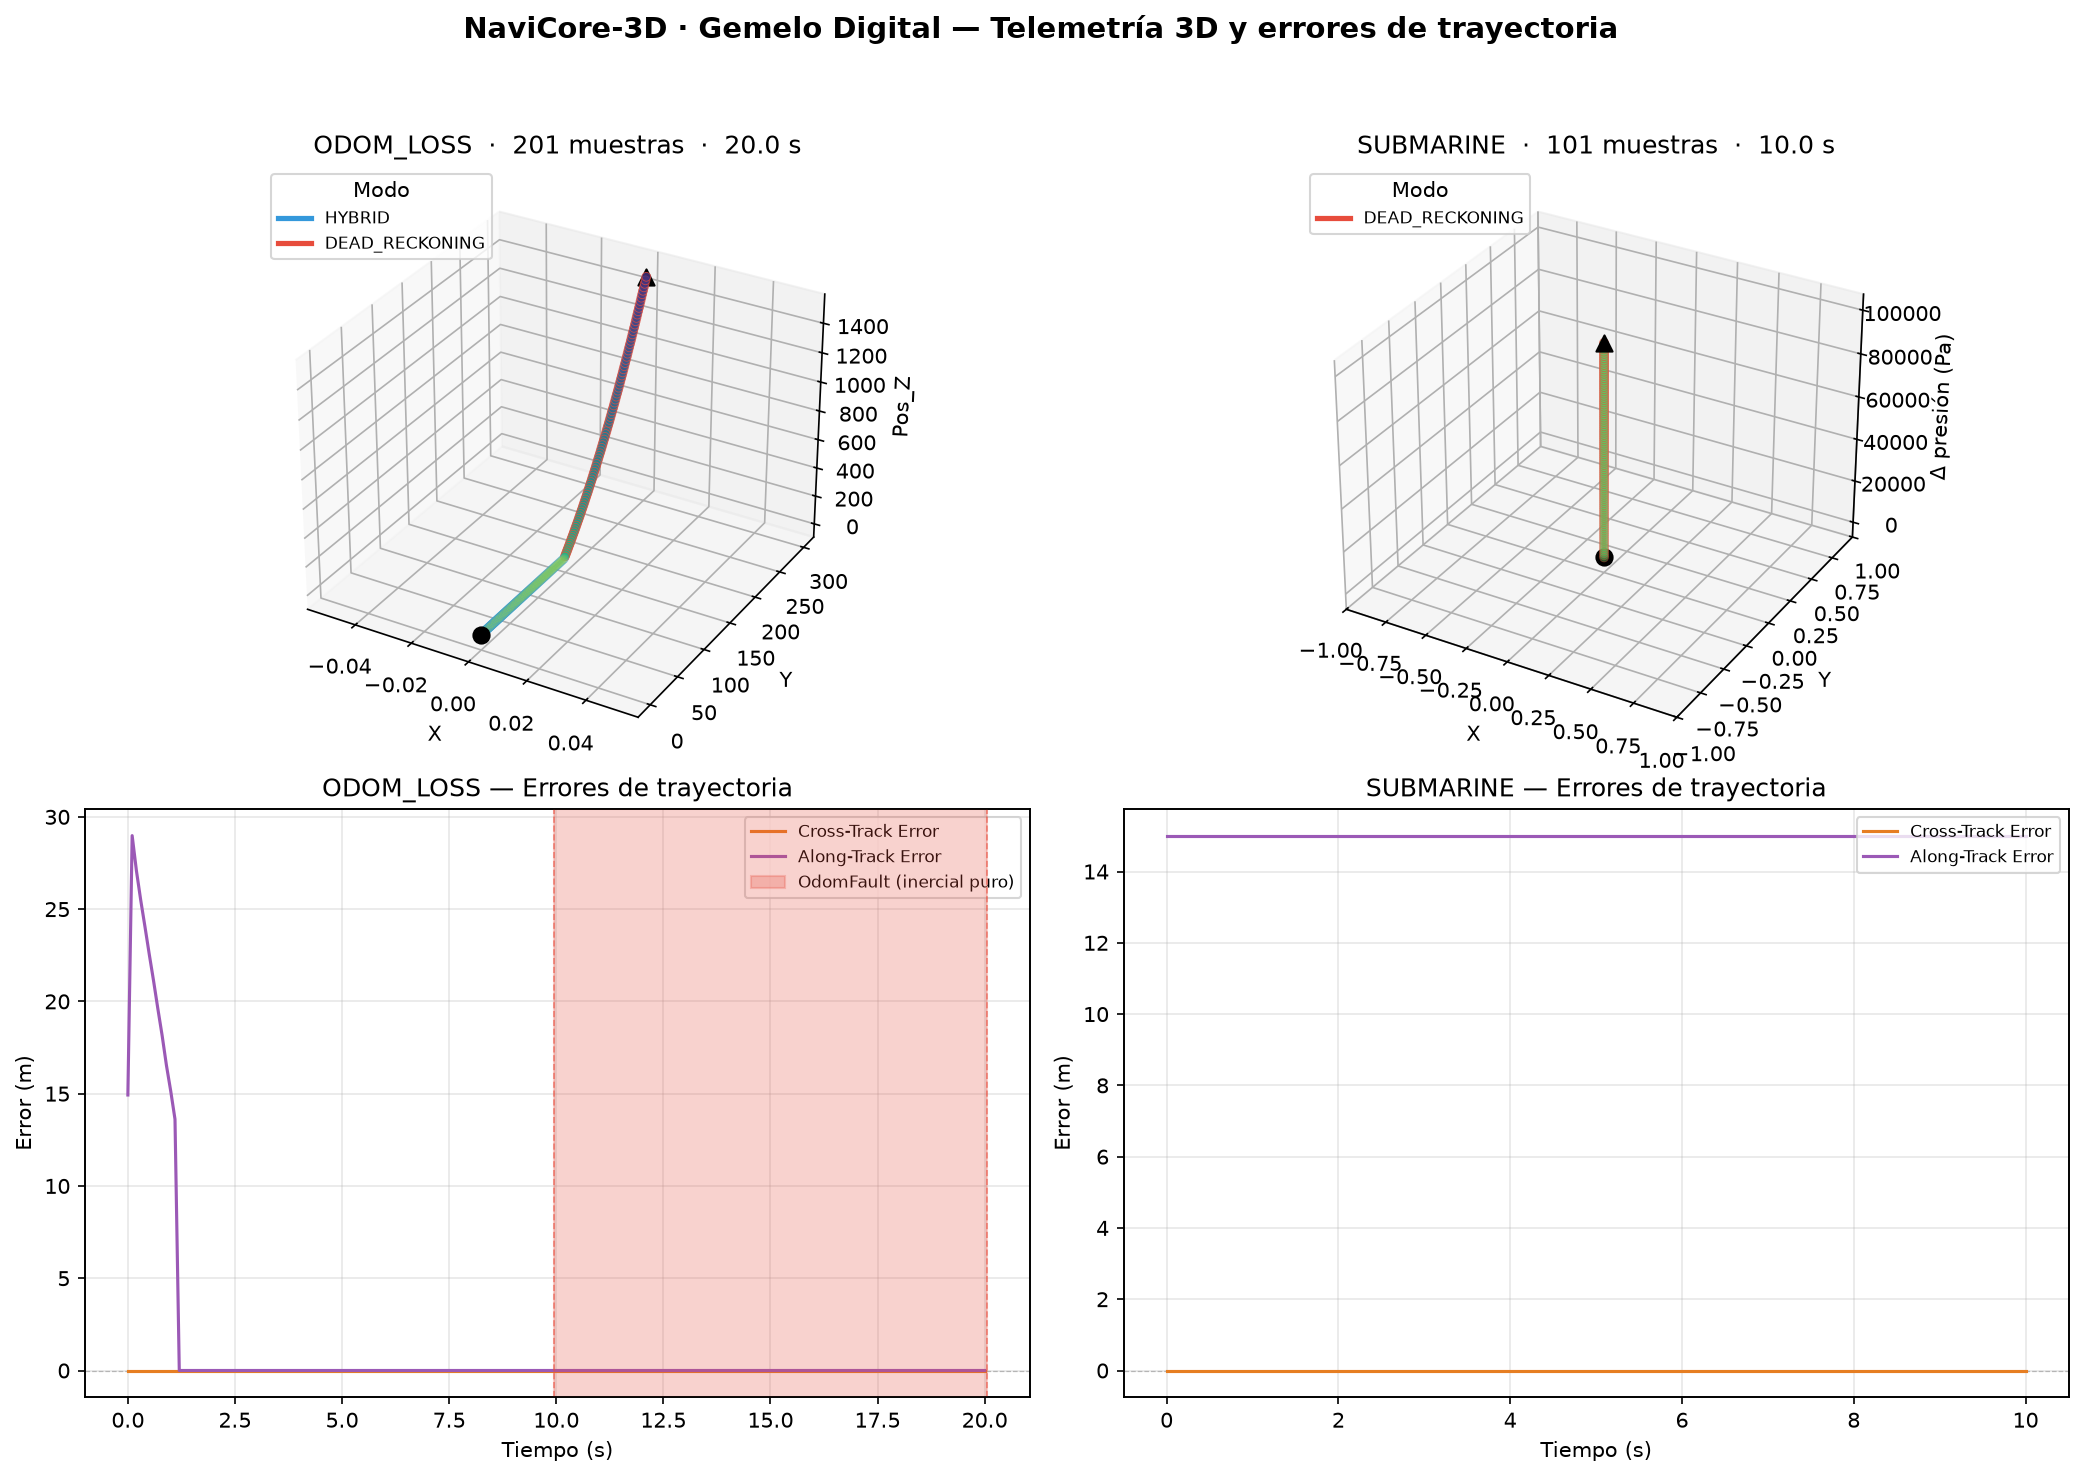
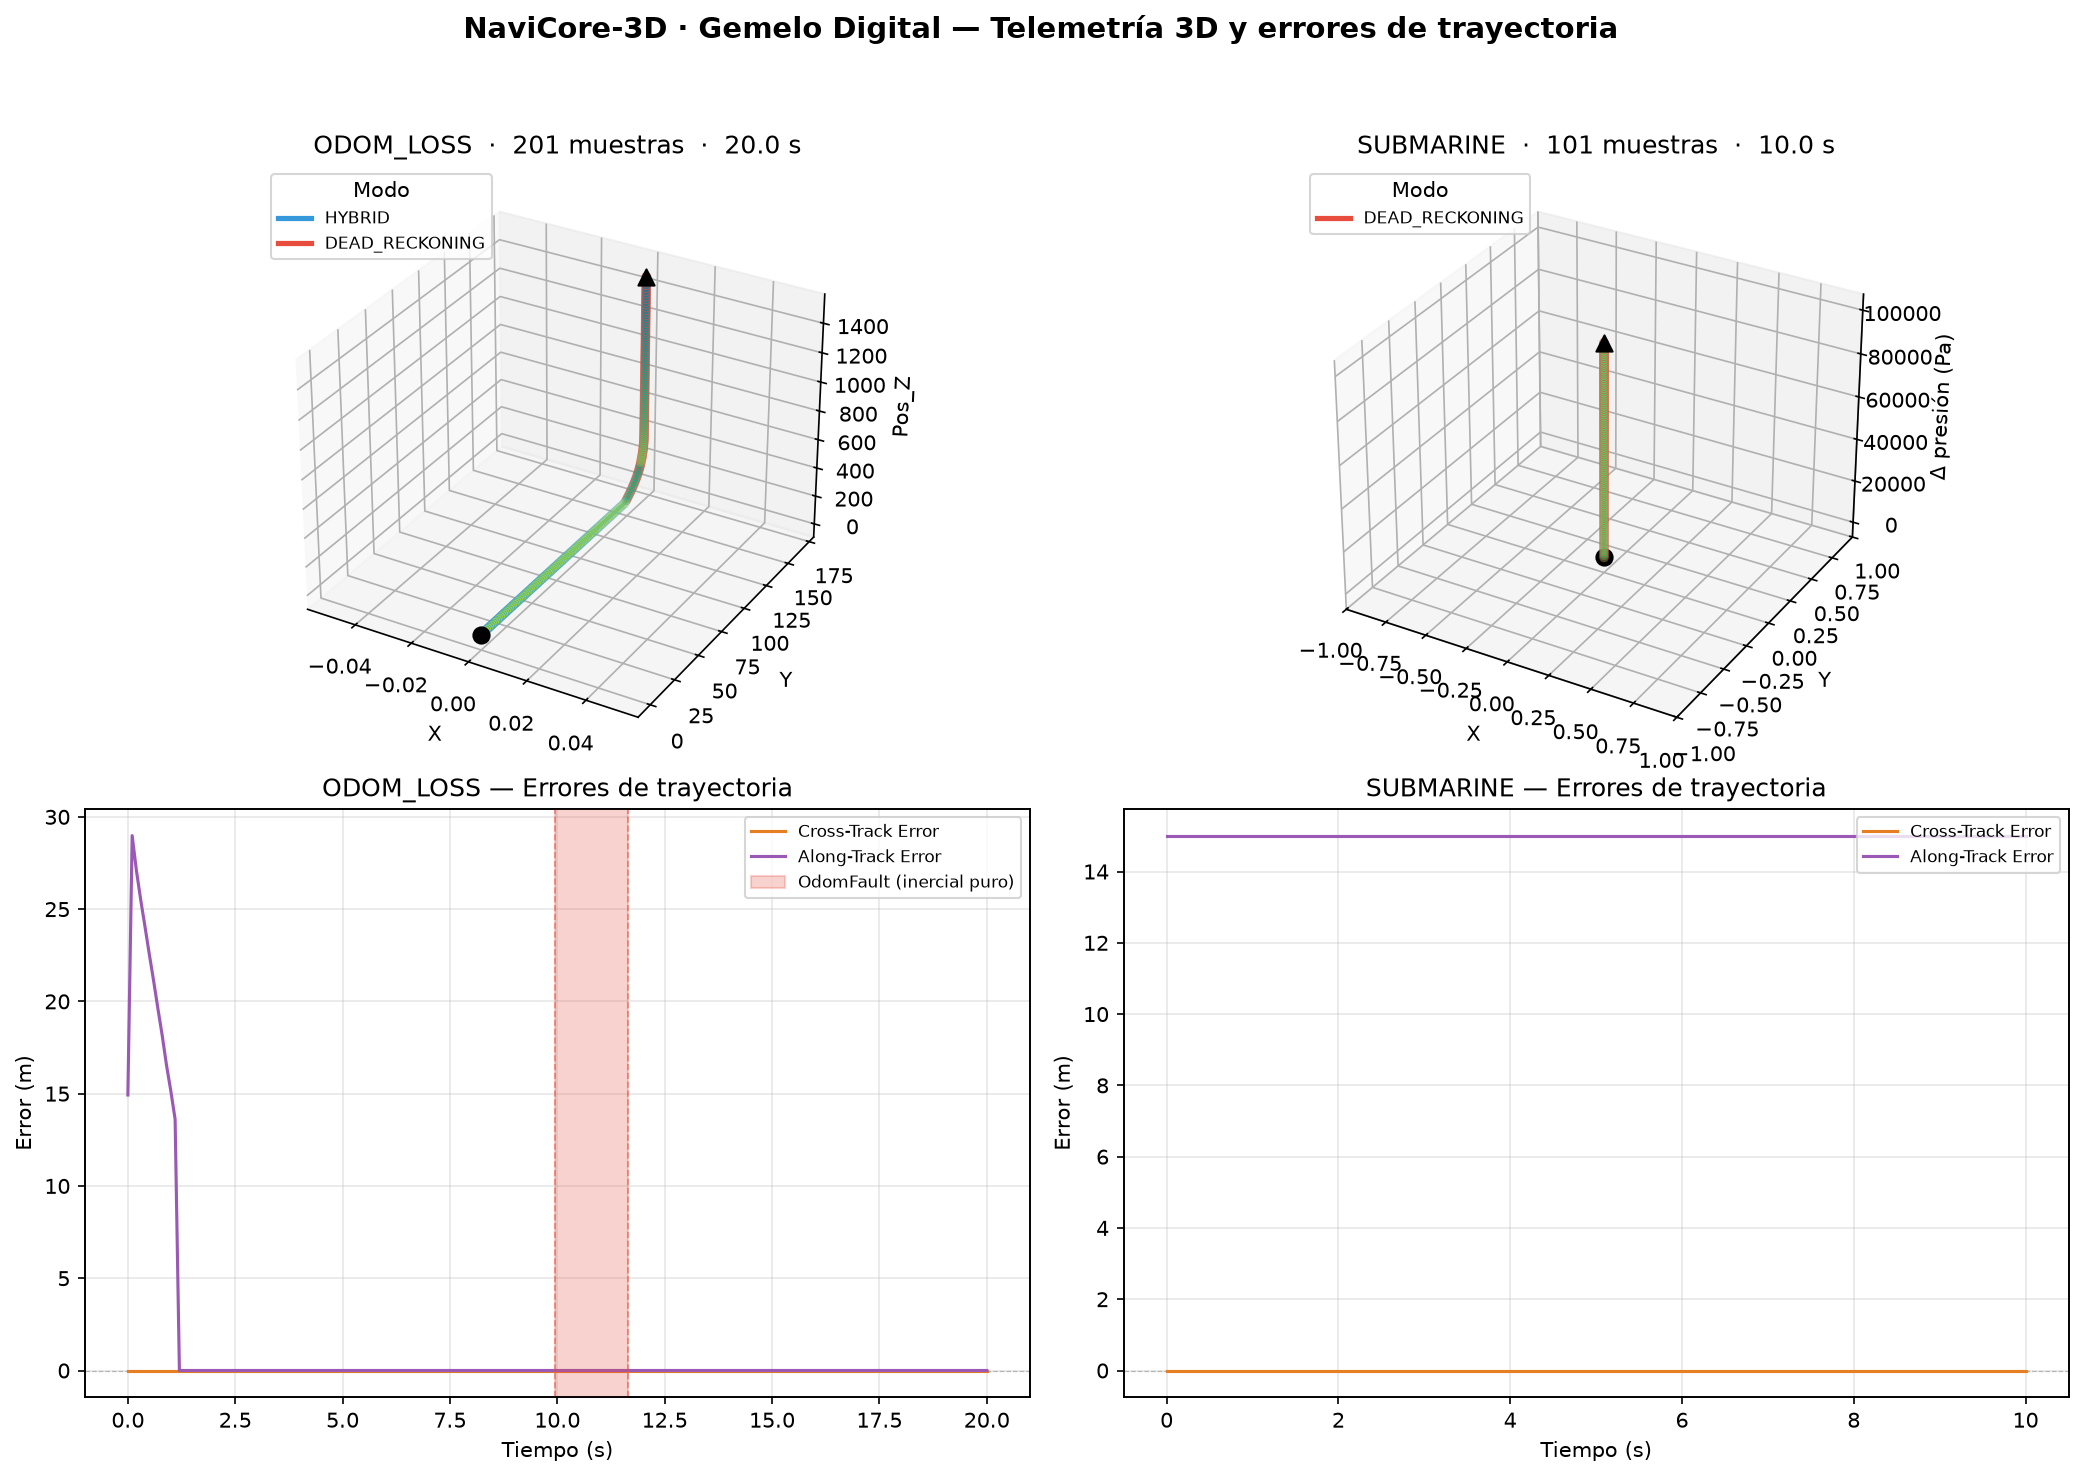
FASE K: Implementada calibración online de bias estático de IMU acoplada a la velocidad del filtro en memoria estática

Changed region(s): [[0.2496, 0.5295, 0.4993, 0.9655], [0.156, 0.1869, 0.4057, 0.4672], [0.312, 0.4672, 0.3433, 0.4983]]

diff --git a/src/core/fusion.cpp b/src/core/fusion.cpp
@@ -140,55 +140,35 @@ static bool dead_reckoning_gps_passes_innovation_gate(const DeadReckoningFilter 
 
 static void dead_reckoning_finalize_bias_calibration(DeadReckoningFilter *filter)
 {
-    if (filter->bias_sample_count > 0U) {
-        const float inv_count = 1.0f / (float)filter->bias_sample_count;
+    if (filter->calibration_samples > 0U) {
+        const float inv_count = 1.0f / (float)filter->calibration_samples;
 
-        filter->bias_accel_x = filter->bias_accel_x_sum * inv_count;
-        filter->bias_gyro_z = filter->bias_gyro_z_sum * inv_count;
+        filter->bias_accel_x = filter->accel_x_sum * inv_count;
+        filter->bias_gyro_z = filter->gyro_z_sum * inv_count;
     }
 
-    filter->bias_calibration_complete = true;
+    filter->is_calibrated = true;
 }
 
-static void dead_reckoning_bias_calibration_accumulate(
-    DeadReckoningFilter *filter,
-    float odom_speed_mps)
+static void dead_reckoning_bias_calibration_step(DeadReckoningFilter *filter, const ImuSample *imu)
 {
-    filter->last_odom_speed_mps = fabsf(odom_speed_mps);
+    filter->calibration_ticks++;
 
-    if (!filter->pending_imu_sample_valid) {
-        return;
+    if (filter->calibration_ticks <= NAVICORE_BIAS_CALIBRATION_TICKS) {
+        const float speed_mps = horizontal_speed_from_velocity(
+            filter->state.velocity.x,
+            filter->state.velocity.y);
+
+        if (speed_mps <= NAVICORE_EPS_SPEED_MPS) {
+            filter->accel_x_sum += imu->accel_mps2[0];
+            filter->gyro_z_sum += imu->gyro_radps[2];
+            filter->calibration_samples++;
+        }
+
+        if (filter->calibration_ticks == NAVICORE_BIAS_CALIBRATION_TICKS) {
+            dead_reckoning_finalize_bias_calibration(filter);
+        }
     }
-
-    if (filter->calibration_tick_count <= NAVICORE_BIAS_CALIBRATION_TICKS &&
-        filter->last_odom_speed_mps <= NAVICORE_EPS_SPEED_MPS) {
-        filter->bias_accel_x_sum += filter->pending_bias_accel_x;
-        filter->bias_gyro_z_sum += filter->pending_bias_gyro_z;
-        filter->bias_sample_count++;
-    }
-
-    if (filter->calibration_tick_count == NAVICORE_BIAS_CALIBRATION_TICKS) {
-        dead_reckoning_finalize_bias_calibration(filter);
-    }
-
-    filter->pending_imu_sample_valid = false;
-}
-
-static void dead_reckoning_bias_calibration_commit_pending(DeadReckoningFilter *filter)
-{
-    if (!filter->pending_imu_sample_valid) {
-        return;
-    }
-
-    dead_reckoning_bias_calibration_accumulate(filter, filter->last_odom_speed_mps);
-}
-
-static void dead_reckoning_bias_calibration_capture_imu(DeadReckoningFilter *filter, const ImuSample *imu)
-{
-    filter->calibration_tick_count++;
-    filter->pending_bias_accel_x = imu->accel_mps2[0];
-    filter->pending_bias_gyro_z = imu->gyro_radps[2];
-    filter->pending_imu_sample_valid = true;
 }
 
 static void dead_reckoning_apply_imu_bias_correction(
@@ -200,7 +180,7 @@ static void dead_reckoning_apply_imu_bias_correction(
     *forward_accel_out = imu->accel_mps2[0];
     *yaw_rate_radps_out = imu->gyro_radps[2];
 
-    if (filter->calibration_tick_count > NAVICORE_BIAS_CALIBRATION_TICKS) {
+    if (filter->calibration_ticks > NAVICORE_BIAS_CALIBRATION_TICKS) {
         *forward_accel_out -= filter->bias_accel_x;
         *yaw_rate_radps_out -= filter->bias_gyro_z;
     }
@@ -225,17 +205,13 @@ void dead_reckoning_init(DeadReckoningFilter *filter, Vector3D initial_position,
     filter->quality = NAVICORE_QUALITY_NONE;
     filter->imu_predicted_speed_mps = 0.0f;
     filter->imu_speed_prediction_valid = false;
+    filter->calibration_ticks = 0U;
+    filter->is_calibrated = false;
     filter->bias_accel_x = 0.0f;
     filter->bias_gyro_z = 0.0f;
-    filter->bias_accel_x_sum = 0.0f;
-    filter->bias_gyro_z_sum = 0.0f;
-    filter->bias_sample_count = 0U;
-    filter->calibration_tick_count = 0U;
-    filter->bias_calibration_complete = false;
-    filter->last_odom_speed_mps = 0.0f;
-    filter->pending_bias_accel_x = 0.0f;
-    filter->pending_bias_gyro_z = 0.0f;
-    filter->pending_imu_sample_valid = false;
+    filter->accel_x_sum = 0.0f;
+    filter->gyro_z_sum = 0.0f;
+    filter->calibration_samples = 0U;
 }
 
 bool dead_reckoning_update_imu(DeadReckoningFilter *filter, const ImuSample *imu)
@@ -244,13 +220,10 @@ bool dead_reckoning_update_imu(DeadReckoningFilter *filter, const ImuSample *imu
         return false;
     }
 
-    dead_reckoning_bias_calibration_capture_imu(filter, imu);
+    dead_reckoning_bias_calibration_step(filter, imu);
 
     const uint32_t prev_ms = filter->state.timestamp_ms;
     if (prev_ms == 0U) {
-        if (filter->last_odom_speed_mps <= NAVICORE_EPS_SPEED_MPS) {
-            dead_reckoning_bias_calibration_commit_pending(filter);
-        }
         filter->state.timestamp_ms = imu->timestamp_ms;
         return true;
     }
@@ -306,11 +279,6 @@ bool dead_reckoning_update_imu(DeadReckoningFilter *filter, const ImuSample *imu
     filter->state.timestamp_ms = imu->timestamp_ms;
     filter->state.mode = NAV_MODE_DEAD_RECKONING;
     dead_reckoning_set_dead_reckoning_confidence(filter);
-
-    if (filter->last_odom_speed_mps <= NAVICORE_EPS_SPEED_MPS) {
-        dead_reckoning_bias_calibration_commit_pending(filter);
-    }
-
     return true;
 }
 
@@ -402,8 +370,6 @@ bool dead_reckoning_update_wheel_odometry(DeadReckoningFilter *filter, float spe
     }
 
     const float ground_speed_mps = fabsf(speed_mps);
-
-    dead_reckoning_bias_calibration_accumulate(filter, ground_speed_mps);
 
     if (filter->imu_speed_prediction_valid) {
         const float speed_delta = fabsf(ground_speed_mps - filter->imu_predicted_speed_mps);

diff --git a/src/core/fusion.hpp b/src/core/fusion.hpp
@@ -31,17 +31,13 @@ typedef struct {
     NavQuality quality;
     float imu_predicted_speed_mps;
     bool imu_speed_prediction_valid;
+    uint32_t calibration_ticks;
+    bool is_calibrated;
     float bias_accel_x;
     float bias_gyro_z;
-    float bias_accel_x_sum;
-    float bias_gyro_z_sum;
-    uint32_t bias_sample_count;
-    uint32_t calibration_tick_count;
-    bool bias_calibration_complete;
-    float last_odom_speed_mps;
-    float pending_bias_accel_x;
-    float pending_bias_gyro_z;
-    bool pending_imu_sample_valid;
+    float accel_x_sum;
+    float gyro_z_sum;
+    uint32_t calibration_samples;
 } DeadReckoningFilter;
 
 void dead_reckoning_init(DeadReckoningFilter *filter, Vector3D initial_position, NavDomain domain);